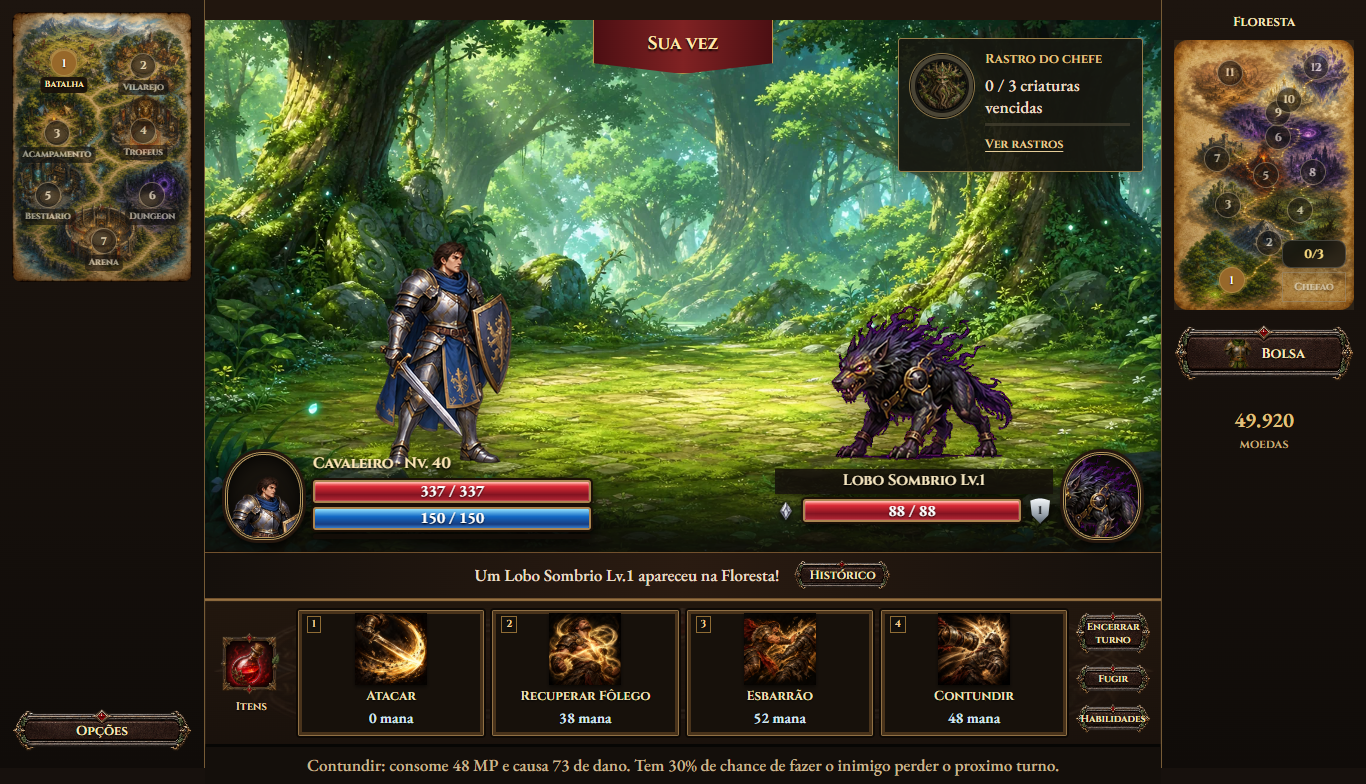
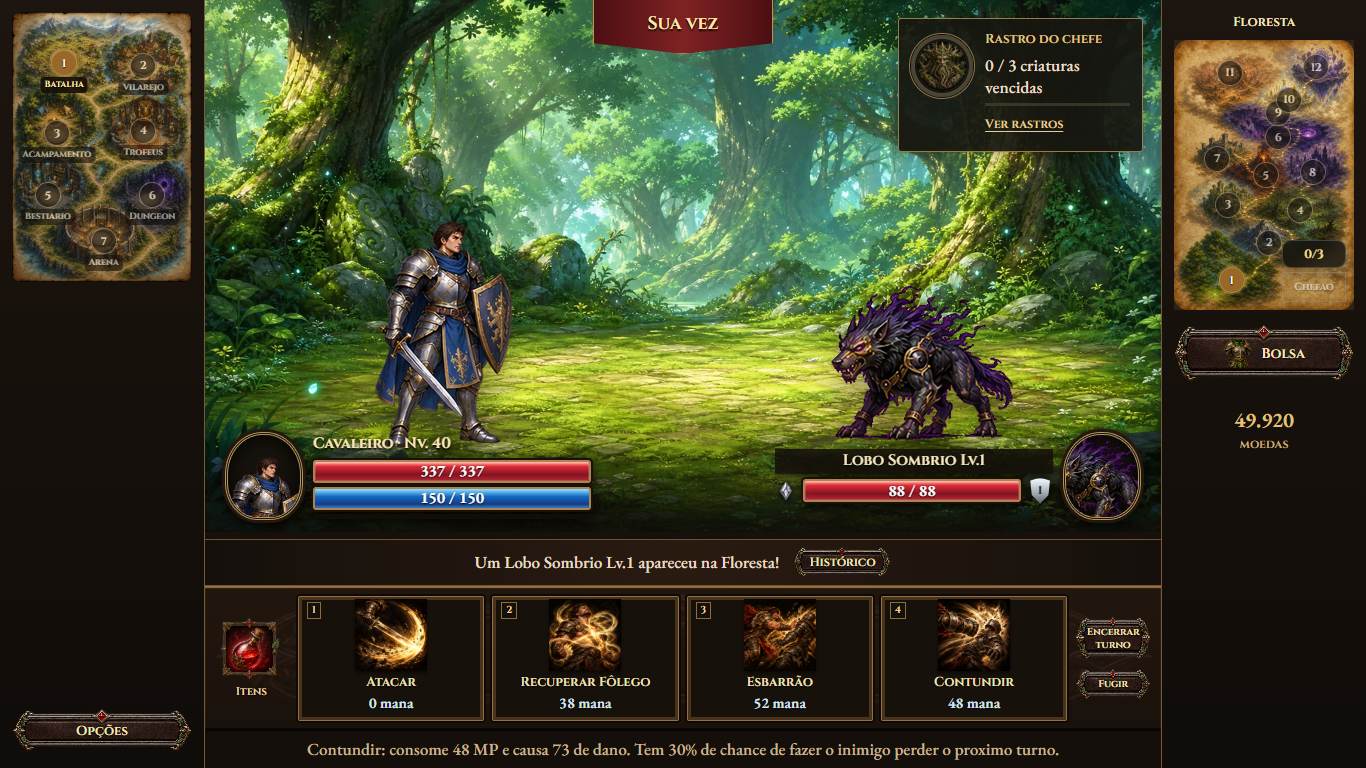
Simplifica informações de combate e abre evolução em janela

diff --git a/assets/js/systems/campaign-hud.js b/assets/js/systems/campaign-hud.js
@@ -30,11 +30,11 @@ const CampaignHUD = (() => {
       <header class="rpg-top"><div class="rpg-location"><h1 id="rpgTitle"></h1></div></header>
       <div class="rpg-world-layout">
         <aside class="rpg-locations-rail"><nav id="modeTabs" aria-label="Locais da campanha"></nav><footer id="rpgOptions"></footer></aside>
-        <main id="rpgMain"><div id="rpgLevelMount"></div><section id="enemyInfo"></section><div id="rpgChronicle" class="rpg-chronicle" aria-live="polite"></div><div id="actions"></div></main>
+        <main id="rpgMain"><section id="enemyInfo"></section><div id="rpgChronicle" class="rpg-chronicle" aria-live="polite"></div><div id="actions"></div></main>
         <aside class="rpg-regions-rail"><section id="regionInfo" class="rpg-world-map" aria-label="Mapa de regiões"></section><div id="rpgBagButton"></div><div id="rpgAccount"></div></aside>
       </div>
       <div id="playerInfo" hidden></div><div id="heroPortraitPanel" hidden></div>
-      <dialog id="rpgDialog" aria-labelledby="rpgDialogTitle"><header><h2 id="rpgDialogTitle"></h2><button type="button" data-hud="close-dialog" aria-label="Fechar janela">Fechar ×</button></header><div id="rpgDialogContent"></div><section id="logPanel" hidden><div id="rpgLogMount"></div></section><section id="inventoryInfo" hidden></section></dialog>
+      <dialog id="rpgLevelDialog" aria-label="Evolução do personagem"><div id="rpgLevelMount"></div></dialog><dialog id="rpgDialog" aria-labelledby="rpgDialogTitle"><header><h2 id="rpgDialogTitle"></h2><button type="button" data-hud="close-dialog" aria-label="Fechar janela">Fechar ×</button></header><div id="rpgDialogContent"></div><section id="logPanel" hidden><div id="rpgLogMount"></div></section><section id="inventoryInfo" hidden></section></dialog>
     </div>`;
     document.getElementById('rpgLogMount').append(log);
     document.getElementById('rpgLevelMount').append(level);
@@ -44,6 +44,7 @@ const CampaignHUD = (() => {
     const dialog = document.getElementById('rpgDialog');
     dialog.addEventListener('click', event => { if(event.target === dialog){ const r=dialog.getBoundingClientRect(); if(event.clientX<r.left||event.clientX>r.right||event.clientY<r.top||event.clientY>r.bottom) closeDialog(); } });
     dialog.addEventListener('close', () => { if(dialog.open)return; state.bag=false;state.dialog=null; if(state.opener?.isConnected) state.opener.focus(); });
+    document.getElementById('rpgLevelDialog').addEventListener('cancel',event=>{if(progressionPending())event.preventDefault();});
     mounted = true;
   }
   function nav(){
@@ -69,6 +70,8 @@ const CampaignHUD = (() => {
     renderActions(); renderLevelUpPanel(); animateBars(); nav(); syncChronicle();
     for(const control of root.querySelectorAll('button[data-tooltip]:not([aria-label])'))control.setAttribute('aria-label',control.textContent.trim());
     if(currentMode!=='battle'&&!progressionPending()) document.getElementById('levelUpPanel').style.display='none';
+    const levelDialog=document.getElementById('rpgLevelDialog');
+    if(progressionPending()){if(document.getElementById('rpgDialog').open)closeDialog();if(!levelDialog.open)levelDialog.showModal();}else if(levelDialog.open)levelDialog.close();
     if(state.bag&&document.getElementById('rpgDialog').open)document.getElementById('rpgDialogContent').innerHTML=renderBag();
     return true;
   }
@@ -76,7 +79,7 @@ const CampaignHUD = (() => {
     const progress=getBossUnlockProgress(currentRegion);
     const title=`${getDisplayedClassName()} · Nv. ${player.level}`;
     return `<section class="rpg-battle ${enemy?.isBoss?'is-boss':''}"><div class="rpg-battle-banner"><span>${isDead?'Derrotado':levelUpPoints>0?'Evolução pendente':needsSubclassChoice()?'Escolha sua subclasse':isProcessingTurn?'Turno em andamento':enemy?'Sua vez':'Exploração'}</span></div>
-      <aside class="rpg-quest" style="--boss-progress:${Math.round(360*Math.min(1,Math.max(0,progress.defeated/Math.max(1,progress.total))))}deg" aria-label="Progresso do chefe" data-state="${enemy?.isBoss?'fighting':progress.unlocked?'ready':'tracking'}"><span class="rpg-boss-seal" role="img" aria-label="${text(regions[currentRegion].boss.name)}: ${progress.defeated} de ${progress.total} criaturas vencidas"><img src="assets/visual/bosses/${slugify(regions[currentRegion].boss.name)}.webp?v=20261029" alt="" width="64" height="64"></span><strong>${enemy?.isBoss?'Confronto com o chefe':progress.unlocked?'Chefe localizado':'Rastro do chefe'}</strong>${enemy?.isBoss?`<span>${esc(enemy.name)}</span>${button('Analisar chefe','target')}`:`<span>${progress.defeated} / ${progress.total} criaturas vencidas</span><progress max="${Math.max(1,progress.total)}" value="${progress.defeated}" aria-label="Criaturas diferentes vencidas para liberar o chefe"></progress>${progress.unlocked?button('Desafiar chefe','boss','',enemy||locked()||progressionPending()?'disabled':''):button('Ver rastros','objective')}`}</aside>
+      <aside class="rpg-quest" style="--boss-progress:${Math.round(360*Math.min(1,Math.max(0,progress.defeated/Math.max(1,progress.total))))}deg" aria-label="Progresso do chefe" data-state="${enemy?.isBoss?'fighting':progress.unlocked?'ready':'tracking'}"><span class="rpg-boss-seal" role="img" aria-label="${text(regions[currentRegion].boss.name)}: ${progress.defeated} de ${progress.total} criaturas vencidas"><img src="assets/visual/bosses/${slugify(regions[currentRegion].boss.name)}.webp?v=20261029" alt="" width="64" height="64"></span><strong>${enemy?.isBoss?'Confronto com o chefe':progress.unlocked?'Chefe localizado':'Rastro do chefe'}</strong>${enemy?.isBoss?`<span>${esc(enemy.name)}</span>${button('Analisar chefe','target')}`:`<span>${progress.defeated} / ${progress.total} criaturas vencidas</span><progress max="${Math.max(1,progress.total)}" value="${progress.defeated}" aria-label="Criaturas diferentes vencidas para liberar o chefe"></progress>${progress.unlocked?button('Desafiar chefe','boss','',enemy||locked()||progressionPending()?'disabled':''):`<div class="rpg-clues"><button type="button" aria-describedby="rpgBossClues">Ver rastros</button><div id="rpgBossClues" role="tooltip" class="rpg-clues-popup"><strong>Criaturas que faltam</strong><ul>${(progress.missing||[]).map(name=>'<li>'+text(name)+'</li>').join('')}</ul></div></div>`}`}</aside>
       ${renderCombatScene(enemy,currentRegion)}
       <div class="rpg-vital-dock"><section class="rpg-hero-plate"><div class="rpg-portrait">${getHeroSpriteMarkup().replace(/id="heroSprite"/g,'id="hudHeroPortrait"')}</div><div><strong>${esc(title)}</strong><div id="rpgHeroVitals"></div></div></section>${enemy?`<section class="rpg-enemy-plate"><div><button class="rpg-target-name" data-hud="target">${esc(enemy.name)}</button><div id="rpgEnemyVitals"></div></div><div class="rpg-enemy-portrait">${getEnemySpriteMarkup(enemy).replace(/id="enemySprite"/g,'id="enemyPortrait"')}</div></section>`:`<section class="rpg-expedition-note"><span>${esc(regions[currentRegion].description)}</span>${progress.unlocked?button('Desafiar chefe','boss'):''}</section>`}</div>
     </section>`;
@@ -99,7 +102,7 @@ const CampaignHUD = (() => {
     const skills=getSkillInfo(),busy=locked()||progressionPending();
     const basicCost=player.class==='Mago'?Math.floor(3+.1*player.level)*3:0;
     const skillButtons=skills.map((skill,index)=>{const available=getSkillActionState(skill),blocked=busy||!available.canUse||playerEffects.forcedBasicTurns>0;return button(`${skillArt(skill)}<strong>${text(skill.name)}</strong><small>${available.manaCost} mana${skill.hpCostPercent?' · vida':''}</small><span class="rpg-hotkey">${index+2<=9?index+2:''}</span>`,'skill',index,`class="rpg-ability" data-hud-hotkey="${index+2}" data-hud-description="${esc(skill.description+(available.reason?' · '+available.reason:''))}" ${blocked?'disabled':''} aria-label="${text(skill.name)}, ${available.manaCost} de mana${blocked?', indisponível':''}"`);}).join('');
-    area.innerHTML=`<div class="rpg-command-belt"><div class="rpg-potion-slot">${button(`${image('icon-potion')}<span>Itens</span>`,'consumables','',busy?'disabled':'')}</div><div class="rpg-ability-list">${button(`${skillArt(null)}<strong>${text(getBasicAttackLabel())}</strong><small>${basicCost} mana</small><span class="rpg-hotkey">1</span>`,'attack','',`class="rpg-ability" data-hud-hotkey="1" data-hud-description="${esc(getBasicAttackTooltip())}" ${busy||player.mp<basicCost?'disabled':''}`)}${skillButtons}</div><div class="rpg-turn-actions">${button('Encerrar turno','pass','',busy?'disabled':'')}${button('Fugir','flee','',`data-tooltip="Custa ${getFleeCost()} moedas. Encerra a batalha sem recompensas.${player.coins<getFleeCost()?' Moedas insuficientes.':''}" aria-description="Fugir custa ${getFleeCost()} moedas e encerra a batalha sem recompensas." ${busy?'disabled':''}`)}${button('Habilidades','skills')}</div></div><div id="rpgSkillHint" class="rpg-skill-hint">${busy?'Aguarde a resolução do turno.':'Selecione uma habilidade para ver seu efeito.'}</div>`;
+    area.innerHTML=`<div class="rpg-command-belt"><div class="rpg-potion-slot">${button(`${image('icon-potion')}<span>Itens</span>`,'consumables','',busy?'disabled':'')}</div><div class="rpg-ability-list">${button(`${skillArt(null)}<strong>${text(getBasicAttackLabel())}</strong><small>${basicCost} mana</small><span class="rpg-hotkey">1</span>`,'attack','',`class="rpg-ability" data-hud-hotkey="1" data-hud-description="${esc(getBasicAttackTooltip())}" ${busy||player.mp<basicCost?'disabled':''}`)}${skillButtons}</div><div class="rpg-turn-actions">${button('Encerrar turno','pass','',busy?'disabled':'')}${button('Fugir','flee','',`data-tooltip="Custa ${getFleeCost()} moedas. Encerra a batalha sem recompensas.${player.coins<getFleeCost()?' Moedas insuficientes.':''}" aria-description="Fugir custa ${getFleeCost()} moedas e encerra a batalha sem recompensas." ${busy?'disabled':''}`)}</div></div><div id="rpgSkillHint" class="rpg-skill-hint">${busy?'Aguarde a resolução do turno.':'Selecione uma habilidade para ver seu efeito.'}</div>`;
     return true;
   }
   function inspectAction(event){const b=event.target.closest('[data-hud-description]');if(b&&document.getElementById('rpgSkillHint'))document.getElementById('rpgSkillHint').textContent=b.dataset.hudDescription;}
@@ -154,7 +157,7 @@ const CampaignHUD = (() => {
     const tabs=`<nav class="rpg-character-tabs">${[['equipamentos','Equipamentos'],['status','Atributos'],['habilidades','Habilidades']].map(([id,label])=>button(label,'camp-tab',id,`aria-pressed="${campTab===id}"`)).join('')}</nav>`;
     if(campTab!=='equipamentos')return tabs+`<section class="rpg-journal">${renderCampContent(getCampEntries(),getPreviewStats(),getInvestedSummary(),player.baseStats||classes[player.class],getTotalSubclassBonuses(),getActiveSetBonuses(),getXpToNextLevel()).replace(/<div class="inner-tabs">.*?<\/div>/s,'')}${campTab==='status'?`<section class="rpg-trainer"><h3>Treinador</h3><p>Redistribuir atributos: ${getTrainerRespecCost()} moedas.</p>${button('Pagar e redistribuir atributos','respec','',player.level<=1||levelUpPoints>0||needsSubclassChoice()?'disabled':'')}</section>`:''}</section>`;
     const stats=getPreviewStats();
-    return tabs+`<section class="rpg-character-sheet"><div class="rpg-paperdoll"><div class="rpg-character-figure">${getHeroSpriteMarkup()}<h2>${esc(getDisplayedClassName())}</h2><span>Nível ${player.level}</span></div><div class="rpg-loadout">${equipmentSlots.map(slot=>{const item=player.equipment[slot];return button(`${item?itemArt(item):slotArt(slot)}<span>${text(slotLabels[slot])}<small>${item?esc(getRarityInfo(item.rarity).label):'Vazio'}</small></span>`,'equipped',slot,`class="rpg-equipment-slot ${item?'filled':''}" aria-label="${esc(item?.name||slotLabels[slot]+' vazio')}"`);}).join('')}</div></div><aside class="rpg-paper rpg-character-stats"><h2>${esc(getDisplayedClassName())}</h2><p>${esc(player.class)} · Nível ${player.level}</p><dl>${[['Vida máxima',stats.maxHp],['Mana máxima',stats.maxMp],['Ataque',getActiveAttack()],['Poder de habilidade',getSkillPowerBonus()],['Redução fixa',getPassiveModifiers().flatReduction]].map(([label,value])=>`<div><dt>${label}</dt><dd>${value}</dd></div>`).join('')}</dl>${EquipmentSystem.getSetBonuses(player).sets.map(set=>setSummary(set.region,set.count)).join('')||'<p>Nenhum conjunto equipado.</p>'}${button('Abrir bolsa','navigate','bag')}</aside></section>`;
+    return tabs+`<section class="rpg-character-sheet"><div class="rpg-paperdoll"><div class="rpg-character-figure">${getHeroSpriteMarkup()}<h2>${esc(getDisplayedClassName())}</h2><span>Nível ${player.level}</span></div><div class="rpg-loadout">${equipmentSlots.map(slot=>{const item=player.equipment[slot];return button(`${item?itemArt(item):slotArt(slot)}<span>${text(slotLabels[slot])}<small>${item?esc(getRarityInfo(item.rarity).label):'Vazio'}</small></span>`,'equipped',slot,`class="rpg-equipment-slot ${item?'filled':''}" aria-label="${esc(item?.name||slotLabels[slot]+' vazio')}"`);}).join('')}</div></div><aside class="rpg-paper rpg-character-stats"><h2>${esc(getDisplayedClassName())}</h2><p>${esc(player.class)} · Nível ${player.level}</p><dl>${[['Vida máxima',stats.maxHp],['Mana máxima',stats.maxMp],['Ataque',getActiveAttack()],['Poder de habilidade',getSkillPowerBonus()],['Redução fixa',getPassiveModifiers().flatReduction]].map(([label,value])=>`<div><dt>${label}</dt><dd>${value}</dd></div>`).join('')}</dl>${EquipmentSystem.getSetBonuses(player).sets.map(set=>setSummary(set.region,set.count)).join('')||'<p>Nenhum conjunto equipado.</p>'}</aside></section>`;
   }
   function renderBag(){
     const items=getVisibleInventoryItems();
@@ -197,8 +200,6 @@ const CampaignHUD = (() => {
     if(action==='craft-region'){if(!EquipmentSystem.isRegionUnlocked(value,player))return;state.region=value;closeDialog();updateUI();return;}
     if(action==='history'){openDialog('history','Histórico de batalha','');document.getElementById('logPanel').hidden=false;document.getElementById('log').style.display='block';return;}
     if(action==='target')return openDialog('target',enemy?.name||'Inimigo',enemy?`<p>Vida: ${Math.ceil(enemy.hp)} / ${enemy.maxHp}</p><p>Armadura: ${getEnemyDisplayedArmor(enemy)}</p><h3>Efeitos</h3><p>${esc(getEnemyStatusEffects(enemy).map(effect=>effect.text).join(' · ')||'Sem efeitos ativos.')}</p><h3>Possíveis drops</h3><p>${esc(enemy.possibleDrop||'Consulte o bestiário.')}</p>`:'');
-    if(action==='objective'){const p=getBossUnlockProgress(currentRegion),contracts=EquipmentSystem.refreshContracts(player).active;return openDialog('objective','Objetivo da expedição',`<h3>Encontre o chefe de ${esc(currentRegion)}</h3><p>Criaturas diferentes: ${p.defeated} / ${p.total}</p><p>${esc((p.missing||[]).join(', ')||'Você já pode desafiar o chefe.')}</p>${p.unlocked?button('Desafiar chefe','boss','',enemy?'disabled':''):''}${contracts.map(q=>`<h3>${esc(q.targetName)}</h3><p>${q.progress} / ${q.count} · ${esc(EquipmentSystem.materialById(q.rewardId)?.name)} × ${q.rewardQty}</p>`).join('')}`);}
-    if(action==='skills')return openDialog('skills','Habilidades',getSkillInfo().map(skill=>`<section class="rpg-skill-entry">${skillArt(skill)}<div><h3>${text(skill.name)} · ${getSkillActionState(skill).manaCost} mana</h3><p>${esc(skill.description)}</p></div></section>`).join(''));
     if(action==='consumables')return openDialog('consumables','Consumíveis',player.inventory.filter(item=>item.type==='consumable').map(item=>`<section class="rpg-consumable"><h3>${esc(item.name)} × ${item.qty||1}</h3><p>${esc(item.description)}</p>${button('Usar','use-item',item.uid,locked()?'disabled':'')}</section>`).join('')||'<p>Você não carrega consumíveis. Visite o alquimista na aldeia.</p>');
     if(action==='service'){if(locked())return;state.bag=false;if(value==='mercenary')state.contractTab=EquipmentSystem.refreshContracts(player).active.length?'active':'offers';setVillageTab(value);return;}
     if(action==='camp-tab')return setCampTab(value);
@@ -228,7 +229,7 @@ const CampaignHUD = (() => {
     const b=document.querySelector(`#actions [data-hud-hotkey="${match[1]}"]`);if(!b)return false;
     event.preventDefault();if(!b.disabled)b.click();return true;
   }
-  document.addEventListener('keydown',event=>{if(mounted&&document.getElementById('rpgDialog')?.open&&/^(Key[CBIVHZA]|Digit[1-9]|Numpad[1-9])$/.test(event.code))event.stopImmediatePropagation();},true);
+  document.addEventListener('keydown',event=>{if(mounted&&(document.getElementById('rpgDialog')?.open||document.getElementById('rpgLevelDialog')?.open)&&/^(Key[CBIVHZA]|Digit[1-9]|Numpad[1-9])$/.test(event.code))event.stopImmediatePropagation();},true);
   return {enabled,render,renderActions,syncChronicle,handleShortcut};
 })();
 window.CampaignHUD=CampaignHUD;

diff --git a/assets/styles/campaign-hud.css b/assets/styles/campaign-hud.css
@@ -103,7 +103,7 @@ body.rpg-campaign::before{content:"";position:fixed;inset:0;background:#080a08db
 .rpg-campaign .rpg-paper p,.rpg-campaign .rpg-paper .lock-note{color:#503b26}
 .rpg-campaign .rpg-paper h2,.rpg-campaign .rpg-paper h3{color:#332117}
 .rpg-campaign .rpg-paper button{font-size:14px;min-height:44px}
-.rpg-campaign .rpg-workshop{display:grid;grid-template-columns:220px 80px minmax(180px,1fr) 340px;gap:14px;min-height:590px;padding:22px 24px 25px;background:linear-gradient(#0e090b22,#120a0566),url('../visual/hud/forge.webp') center/cover;align-items:start}
+.rpg-campaign .rpg-workshop{display:grid;grid-template-columns:220px 80px minmax(180px,1fr) 340px;gap:14px;min-height:590px;padding:22px 24px 25px;background:#1b100b url('../visual/hud/forge.webp') center top/contain no-repeat;align-items:start}
 .rpg-campaign .rpg-workshop-map{min-width:0}
 .rpg-campaign .rpg-map-object{position:relative;display:block;width:100%;padding:0;min-height:280px;border:10px ridge #6d4c27;border-image:none;background:#17120c;box-shadow:0 6px 20px #0009;overflow:hidden}
 .rpg-campaign .rpg-map-object>img{width:100%;height:265px;display:block;object-fit:cover;object-position:50% 30%}
@@ -216,7 +216,7 @@ body.rpg-campaign::before{content:"";position:fixed;inset:0;background:#080a08db
  .rpg-campaign .rpg-vital-dock{left:10px;right:10px;gap:12px;bottom:10px;align-items:flex-start}.rpg-campaign .rpg-hero-plate,.rpg-campaign .rpg-enemy-plate{width:50%;gap:5px}.rpg-campaign .rpg-portrait,.rpg-campaign .rpg-enemy-portrait{display:none}.rpg-campaign .rpg-hero-plate strong{font-size:11px;min-height:28px;display:flex;align-items:flex-end}.rpg-campaign .rpg-target-name{font-size:11px;min-height:28px;margin-bottom:4px;padding:0;text-align:right}.rpg-campaign .rpg-vital-dock .scene-vital-text{font-size:11px}.rpg-campaign .rpg-vital-dock .scene-vital-bar{height:21px;min-height:21px;border-width:1px}.rpg-campaign .rpg-vital-dock .scene-vital-xp{height:4px;min-height:4px}.rpg-campaign .rpg-vital-dock .scene-effect-chip{font-size:10px;padding:2px 4px}.rpg-campaign .rpg-vital-dock .enemy-rarity-gem{width:20px;flex-basis:20px}.rpg-campaign .rpg-vital-dock .scene-armor-badge{width:21px;flex-basis:21px;font-size:10px}.rpg-campaign .rpg-expedition-note{max-width:48%;font-size:11px;padding:8px}.rpg-campaign .rpg-expedition-note button{font-size:11px;padding:0 5px}.rpg-campaign .rpg-explore-note{top:21%;width:55%;font-size:12px;padding:9px}
  .rpg-campaign .rpg-chronicle{padding:5px 10px;gap:8px;justify-content:space-between;font-size:11px;min-height:40px}.rpg-campaign .rpg-chronicle>span{max-width:73%}.rpg-campaign .rpg-chronicle>button{font-size:11px;min-height:32px}
  .rpg-campaign .rpg-command-belt{grid-template-columns:1fr;padding:12px 12px 5px;gap:8px}.rpg-campaign .rpg-ability-list{grid-row:1;grid-template-columns:repeat(3,minmax(0,1fr));gap:8px}.rpg-campaign .rpg-ability>img{height:65px;object-fit:contain}.rpg-campaign .rpg-ability strong{font-size:12px;line-height:1.2}.rpg-campaign .rpg-ability small{font-size:10px}.rpg-campaign .rpg-ability{min-height:115px;padding:1px 3px 7px}.rpg-campaign .rpg-hotkey{display:none}
- .rpg-campaign .rpg-potion-slot{grid-row:2;max-width:45%}.rpg-campaign .rpg-potion-slot button{flex-direction:row;font-size:12px;min-height:44px;padding:0}.rpg-campaign .rpg-potion-slot img{width:34px;height:34px}.rpg-campaign .rpg-turn-actions{grid-row:2;flex-direction:row;justify-self:end;max-width:70%;gap:4px}.rpg-campaign .rpg-turn-actions button{min-height:44px;padding:0 2px;font-size:11px;border-width:10px;border-image-width:11px 18px}.rpg-campaign .rpg-turn-actions button[data-hud=skills]{font-size:0;width:34px}.rpg-campaign .rpg-turn-actions button[data-hud=skills]::after{content:'?';font-size:15px}.rpg-campaign .rpg-skill-hint{font-size:11px;padding:7px 12px;min-height:42px}
+ .rpg-campaign .rpg-potion-slot{grid-row:2;max-width:45%}.rpg-campaign .rpg-potion-slot button{flex-direction:row;font-size:12px;min-height:44px;padding:0}.rpg-campaign .rpg-potion-slot img{width:34px;height:34px}.rpg-campaign .rpg-turn-actions{grid-row:2;flex-direction:row;justify-self:end;max-width:70%;gap:4px}.rpg-campaign .rpg-turn-actions button{min-height:44px;padding:0 2px;font-size:11px;border-width:10px;border-image-width:11px 18px}.rpg-campaign .rpg-skill-hint{font-size:11px;padding:7px 12px;min-height:42px}
  .rpg-campaign .rpg-mainnav{gap:3px;padding:7px 5px;justify-content:space-between}.rpg-campaign .rpg-mainnav button{display:flex;flex-direction:column;gap:2px;min-width:0;flex:1;font-size:11px;min-height:56px;border-width:10px;border-image-width:12px 18px;padding:0 2px}.rpg-campaign .rpg-mainnav img{width:22px;height:22px}.rpg-campaign .rpg-mainnav button[data-value=more]{min-width:0;flex:.65;font-size:11px}.rpg-campaign .rpg-mainnav button[data-value=more]::before{content:'···';font-size:20px;line-height:22px}
  .rpg-campaign .rpg-service-nav,.rpg-campaign .rpg-character-tabs{gap:5px;padding:10px 8px}.rpg-campaign .rpg-service-nav button,.rpg-campaign .rpg-character-tabs button{min-width:0;font-size:12px;padding:0 3px;flex:1;border-width:10px;border-image-width:12px 20px;min-height:44px}
  .rpg-campaign .rpg-workshop{display:grid;grid-template-columns:60px minmax(0,1fr);gap:12px;padding:14px 12px;background-position:50% 0;background-attachment:scroll}.rpg-campaign .rpg-workshop-map{grid-column:1/-1;display:contents}.rpg-campaign .rpg-map-object{grid-column:1/-1;min-height:60px;height:64px;border-width:3px;background:#1b120b}.rpg-campaign .rpg-map-object>img{height:100%;object-position:50% 25%;opacity:.6}.rpg-campaign .rpg-map-object>span{background:#17100cd9;bottom:10px;left:10px;right:10px;font-size:14px;padding:8px}.rpg-campaign .rpg-workshop-map .rpg-set-summary{grid-column:1/-1;grid-row:4;margin:0}.rpg-campaign .rpg-equipment-rack{grid-column:1;grid-row:2;gap:7px;padding:5px 0}.rpg-campaign .rpg-rack-slot{min-height:66px;padding:3px}.rpg-campaign .rpg-rack-slot img{width:34px;height:42px}.rpg-campaign .rpg-rack-slot>span{font-size:9px}.rpg-campaign .rpg-rack-slot small{font-size:8px}.rpg-campaign .rpg-anvil{grid-column:2;grid-row:2;min-height:385px}.rpg-campaign .rpg-anvil h2{font-size:16px!important;padding:9px}.rpg-campaign .rpg-anvil>p{font-size:11px}.rpg-campaign .rpg-anvil>img{height:235px;max-width:200px;margin:8px 0}.rpg-campaign .rpg-rarity-path{gap:5px;padding:10px 6px}.rpg-campaign .rpg-rarity-path>span{font-size:9px}.rpg-campaign .rpg-gem{width:12px;height:12px;margin-bottom:7px}.rpg-campaign .rpg-rarity-path b{font-size:16px;right:-5px}.rpg-campaign .rpg-recipe{grid-column:1/-1;grid-row:3;max-width:100%;padding:3px 7px}.rpg-campaign .rpg-paper{border-width:23px;border-image-width:29px;padding:7px}.rpg-campaign .rpg-forge-tabs{margin-bottom:12px}.rpg-campaign .rpg-forge-tabs button{font-size:15px}.rpg-campaign .rpg-materials li{font-size:13px;padding:9px 0}
@@ -236,7 +236,7 @@ body.rpg-campaign::before{content:"";position:fixed;inset:0;background:#080a08db
 .rpg-campaign .rpg-vital-dock .scene-vital-fill{position:absolute;top:0;left:0;height:100%}
 .rpg-campaign .rpg-vital-dock .scene-vital-stack>.scene-vital-bar{flex:none}
 .rpg-campaign .rpg-chronicle>button{flex:0 0 auto;width:auto}
-@media(max-width:760px){.rpg-campaign .rpg-ability-list,.rpg-campaign .rpg-potion-slot,.rpg-campaign .rpg-turn-actions{grid-column:1}.rpg-campaign .rpg-turn-actions{max-width:62%}.rpg-campaign .rpg-turn-actions button[data-hud=skills]{width:44px}.rpg-campaign .rpg-chronicle>span{min-width:0;flex:1;max-width:none}}
+@media(max-width:760px){.rpg-campaign .rpg-ability-list,.rpg-campaign .rpg-potion-slot,.rpg-campaign .rpg-turn-actions{grid-column:1}.rpg-campaign .rpg-turn-actions{max-width:62%}.rpg-campaign .rpg-chronicle>span{min-width:0;flex:1;max-width:none}}
 .rpg-campaign button{text-align:center;vertical-align:middle}
 .rpg-campaign button:not(.region-map-marker):not(.trophy-category-hotspot):not(.trophy-category-percent):not(.trophy-overall-percent){align-content:center}
 .rpg-campaign :is(.rpg-service-nav,.rpg-character-tabs,.rpg-forge-tabs,.rpg-contract-tabs,.rpg-bag-filters,.rpg-turn-actions,.rpg-recovery,.rpg-paper,.rpg-more) button{display:inline-flex;align-items:center;justify-content:center;text-align:center}
@@ -372,3 +372,17 @@ body.rpg-campaign::before{content:"";position:fixed;inset:0;background:#080a08db
 .rpg-campaign .inventory-item:has(>.rpg-book-skill-art){display:flow-root}
 .rpg-campaign .progression-item:has(>.rpg-book-skill-art){display:flow-root}
 @media(max-width:760px){.rpg-campaign .rpg-book-skill-art{width:44px;height:44px;margin-right:9px}}
+.rpg-campaign #rpgLevelDialog{width:min(650px,calc(100vw - 24px));max-height:calc(100dvh - 32px);overflow:auto;padding:0;border:3px double #bb9456;background:#21160e;color:#f1dfb7;box-shadow:0 20px 100px #000d}
+.rpg-campaign #rpgLevelDialog::backdrop{background:#080705ce;backdrop-filter:blur(3px)}
+.rpg-campaign #rpgLevelMount:has(#levelUpPanel:not([style*="display: none"])){padding:0}
+.rpg-campaign #rpgLevelDialog #levelUpPanel{margin:0;border:0}
+.rpg-campaign .rpg-clues{position:relative;grid-column:2;text-align:left}
+.rpg-campaign .rpg-clues>button{cursor:pointer;text-decoration:underline;font-size:12px;padding:5px 0;color:inherit}
+.rpg-campaign .rpg-clues-popup{display:none;position:absolute;right:0;top:100%;width:240px;max-width:75vw;max-height:50dvh;overflow:auto;padding:12px 16px;background:#20180f;color:#f0dfba;border:1px solid #9c8050;box-shadow:0 4px 14px #0009;z-index:30;font-size:16px;line-height:1.4}
+.rpg-campaign .rpg-clues:hover .rpg-clues-popup,.rpg-campaign .rpg-clues:focus-within .rpg-clues-popup{display:block}
+.rpg-campaign .rpg-clues-popup ul{padding-left:18px;margin:8px 0 0}
+.rpg-campaign #rpgLevelDialog .attribute-row{display:flex;flex-direction:column;align-items:stretch;gap:10px;margin:10px 0;padding:10px}
+.rpg-campaign #rpgLevelDialog .attribute-controls{display:grid;grid-template-columns:repeat(2,minmax(0,1fr)) 32px repeat(2,minmax(0,1fr));gap:4px;width:100%;align-items:center}
+.rpg-campaign #rpgLevelDialog .attribute-controls button{width:100%;min-width:0;min-height:40px;margin:0;padding:0;border-width:8px;border-image-width:12px 16px;font-size:14px}
+.rpg-campaign #rpgLevelDialog .attribute-value{text-align:center;min-width:0}
+.rpg-campaign .battle-scene:has(.rpg-clues:hover),.rpg-campaign .battle-scene:has(.rpg-clues:focus-within){overflow:visible}

diff --git a/index.html b/index.html
@@ -8,7 +8,7 @@
 <link rel="stylesheet" href="assets/styles/equipment.css?v=20261028" />
 <link rel="stylesheet" href="assets/styles/dungeon.css" />
 <link rel="preload" href="assets/visual/fonts/cinzel-variable.ttf" as="font" type="font/ttf" crossorigin />
-<link rel="stylesheet" href="assets/styles/campaign-hud.css?v=20261029-arsenal" />
+<link rel="stylesheet" href="assets/styles/campaign-hud.css?v=20261029-popups" />
 <link rel="stylesheet" href="assets/styles/campaign-typography.css?v=20261029-centered" />
 <link rel="stylesheet" href="assets/styles/campaign-reading.css?v=20261029-arsenal" />
 <link rel="stylesheet" href="assets/styles/character-motion.css?v=20261029-static" />
@@ -62,7 +62,7 @@
 <script src="assets/js/data/hero-art-layout.js?v=20261029-motion"></script>
 <script src="assets/js/systems/character-motion.js?v=20261029-motion"></script>
 <script src="assets/js/game.js?v=20261029-motion"></script>
-<script src="assets/js/systems/campaign-hud.js?v=20261029-direct-flee"></script>
+<script src="assets/js/systems/campaign-hud.js?v=20261029-popups"></script>
 <script src="assets/js/systems/dungeon-system.js"></script>
 </body>
 </html>

diff --git a/docs/hud/implementacao-rpg.md b/docs/hud/implementacao-rpg.md
@@ -110,3 +110,8 @@ Executar `node scripts/run-regressions.cjs`.
 - Progressão: gastar o último ponto e confirmar, escolher subclasse, redistribuir no treinador, confirmar fuga e debitar o custo, abrir configurações, morrer e renascer.
 
 Evidências em `docs/qa/hud/`, incluindo `results.json`, `progression-results.json` e capturas das telas reais em desktop e celular. Os personagens das capturas são fixtures descartáveis de teste; não representam uma simulação de balanceamento.
+
+
+## Janelas e informações contextuais
+
+Os rastros das criaturas restantes aparecem junto ao selo do chefe ao passar o mouse ou focar o botão; tocar também revela a informação. O combate apresenta diretamente as habilidades disponíveis, sem o botão de lista duplicada. A bolsa é acessada pela lateral, inclusive no acampamento. A distribuição de pontos e a escolha de subclasse ficam em uma janela modal que abre automaticamente e fecha depois da conclusão. Os controles de atributos cabem em uma linha no celular. O ferreiro usa o cenário inteiro, sem recorte de fundo. Verificações em `docs/qa/hud/popups.cjs`, `progression.cjs`, `verify.cjs` e `docs/hud/chefe/capturar.cjs`.
